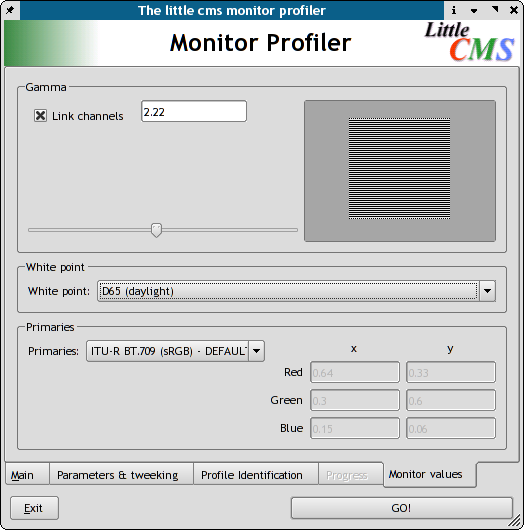
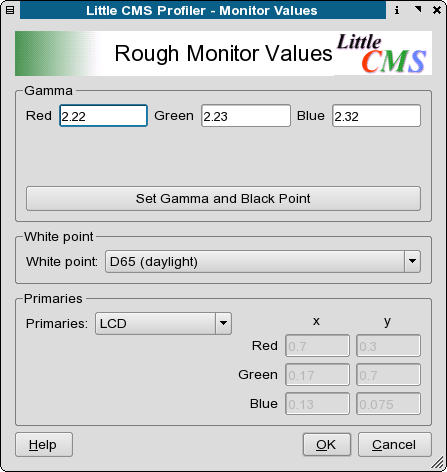
updated for lprof in place of the old lcms profiler
git-svn-id: svn://scribus.info/Scribus/trunk@4774 11d20701-8431-0410-a711-e3c959e3b870

diff --git a/Scribus/scribus/doc/en/moncal.html b/Scribus/scribus/doc/en/moncal.html
@@ -1,68 +1,75 @@
 <qt>
-<title>A Quick Start Guide to Monitor Profiling with littlecms</title>
-<h2>A Quick Start Guide to Monitor Profiling with littlecms</h2>
+<title>A Quick Start Guide to Monitor Profiling with Lprof</title>
+<h2>A Quick Start Guide to Monitor Profiling with Lprof</h2>
 
 <h4>Overview</h4>
-<p><em>Author's note, the littlecms profilers are no longer directly available from littecms, but they have been picked up by some volunteers and its is now a separate project from littlecms, nor are they supported by the littlecms author. Some distros do have them in package form, as well as source mirrors. Google is your friend. However, nothing else on Linux is capable of the profile creation so easily as the profile construction tools. They are worth tracking down in rpm or other package form.</em> Otherwise, visit <a href="http://lprof.sourceforge.net">http://lprof.sourceforge.net</a>. Note also these notes are based on the original package and will be updated for the new profilers soon. </p>
+<p><em>Author's note, the <strong>Lprof</strong> profilers were originally the creation of Marti Maria and after some time of dormancy have been resurrected by some volunteers. Lprof is now a separate project from littlecms, though it still depends on littlecms.</em> Some distros do have them in package form. Google is your friend. However, nothing else on Linux is capable of the profile creation so easily as Lprof. They are worth tracking down in rpm or other package form. One other thing to note for those who used the earlier Lprof tools that the update Lprof application is now a single executable. </p>
 
-<p>One of the best tools with littlecms is the profile construction tools. </a>. There are five separate tools included in the package:</p>
+ <p>Otherwise, visit <a href="http://lprof.sourceforge.net">http://lprof.sourceforge.net</a> for the latest info and packages. There is steady activity on refining these profilers to make them comparable to commercial grade applications. There are no native Windows packages yet available. For those users running on Windows and who do have an Adobe graphics application installed, creation of a profile with Adobe Gamma is recommended for creating a basic monitor profile. </p>
+
+<p>There are five separate tools included in the package:</p>
 
 <ul>
 	<li>A monitor profiler</li>
 	<li>A scanner profiler</li>
 	<li>A measurement tool</li>
 	<li>A profile checker</li>
-	<li>A utility ICC2IT8 for working with IT8 targets which are used for profiling scanners</li>
+	<li>Special utillities for with IT8 targets which are used for profiling scanners</li>
 </ul>
 
-<p>Here, we are going to focus on creation a monitor profile with <strong>qtmonitorprofiler</strong>. Without some sort of accurate monitor profiler, you will find it difficult to obtain good results from the other tools. Before starting, you need to find if possible, your monitor manual or a spec sheet from your vendor's website. In addition, you might wish to locate the factory ICC profile, which we will use for comparison purposes later on.</p>
+<p>Here, we are going to focus on creation a monitor profile with the Monitor Profile tool.  Without some sort of reasonably accurate monitor profiler, you will find it difficult to get consistent on screen color soft proofs with color management enabled, nor obtain good results from the other tools. Before starting, you need to find if possible, your monitor manual or a spec sheet from your vendor's website. In addition, you might wish to locate the factory ICC profile, if available, which we will use for comparison purposes later on.</p>
 
 <h4>Installation</h4>
 
-<p>It is simple to untar and simply type <code>make</code> in the source directory. This will build all five tools and leave the executables in the root source directory. If you are fussy like me, you can go in an hand edit the make files to taste. There is an option to compile this as a KDE application, but if KDE is in a non standard location, it will not compile in this manner. There is also available a patch availabe which enables correct compiling on Qt 3.x.<strong> Note: lprof as the package of tools is known is now a separate project. See: <a href="http://lprof.sourceforge.net">http://lprof.sourceforge.net</a></strong></p>
-
+<p>Lprof is uses a new build system called <strong>scons</strong>, which based on python.  It is simple to untar and simply type <code>python scons.py</code> in the source directory. This will build lprof and then <code>python scons.py install</code> as root will install the package.  <strong>I strongly recommend you read the detailed readme file before compiling.</strong></p>
 <h4>Preparation</h4>
 
 <p>First steps:</p>
 
 <ul>
 	<li>You should have your monitor on for at least a half hour to stabilize the temperature.</li>
-	<li>In addition, for optimum results, set your desktop to a neutral gray background without any bitmaps or images. This is one of those times, when all that beautiful eye candy on Xfree is <em>definitely</em> not helpful. The switch to a gray desktop, helps to prevent your eyes from being being fooled by a lack of balance in the colors. My desktop is usually a darkish blue, but for color critical work - back to boring gray.</li>
+	<li>In addition, for optimum results, set your desktop to a neutral gray background without any bitmap backgrounds or images. This is one of those times, when all that beautiful eye candy is <em>definitely</em> not helpful. The switch to a gray desktop, helps to prevent your eyes from being being fooled by a lack of balance in the colors. My desktop is usually a darkish blue, but for color critical work - back to boring gray.</li>
 
 	<li>Configure, if possible, your monitor's color temperature to 6500k through the on-screen controls. Your monitor manual should have directions to set this for your individual monitor.</li>
 </ul>
 
-<p><b>Explanation:</b> This step, helps to get your monitor to display with a closer match to the standards which are used in color measurement. Typically, most monitors are set at the factory to 9300k, which is too "cold" or bluish to depict colors in a balanced manner. After changing your monitor temperature to 6500k, you might think it has a yellowish cast, but walk away for a few minutes and return. Your eyes will adjust.</p>
+<p><b>Explanation:</b> This step, helps to get your monitor to display with a closer match to the standards which are used in color measurement. Typically, most monitors are set at the factory to 9300k to look brighter, however for accurate color management it is too "cold" or bluish to depict colors in a balanced manner. After changing your monitor temperature to 6500k, you might think it has a yellowish cast, but walk away for a few minutes and return. Your eyes will adjust.</p>
 
-<p>Next, set monitor contrast to nearly 100%. Then you want to use the brightness controls to adjust the brightness, so you can see the following, so that each of the shades of gray is distinct. KDE 3.3+ now ships with Kgamma, which is in the KDE Control Center. This is equally useful for your setup. </p>
+<p>Next, set monitor contrast to nearly 100%. Then you want to use the brightness controls to adjust the brightness, so you can see the following, so that each of the shades of gray is distinct. KDE 3.3+ now ships with Kgamma, which is in the KDE Control Center. This is equally useful for your setup. Below is the screen for setting Gamma within Lprof. It is nearly full screen and should be maximized to avoid effects of having nearby colors on the screen. </p>
 
-<table width="100%"><tr><td align="center"><img src="images/gammagrayscale.png" title="Adjust brightness so all shades of gray are visible." alt="gamma gray scale gradient" /></td></tr></table>
 
-<h4>Using qtmonitorprofiler</h4>
 
-<p>The first tab will bring up the panel. Check: "I want build a coarse monitor profile."</p>
+<h4>Setting Profile Parameters</h4>
+<p>The first tab will bring up the panel. Check: "I want build a coarse monitor profile." Then select: <strong>Enter Monitor Values. </strong></p>
+<table width="100%"><tr><td align="center"><img src="images/monprof1.png" title="The first lprof panel" alt="The first lprof panel"/></td></tr></table>
+<p>Then, select </p>
 
-<table width="100%"><tr><td align="center"><img src="images/monprof1.png" title="The first qtmeasurement panel" alt="The first qtmeasurement panel"/></td></tr></table>
 
-<p>Then switch to one the below:</p>
+<p>Then, switch to the panel here and select: <strong>Set Gamma and Black Point</strong></p>
 
-<table width="100%"><tr><td align="center"><img src="images/monprof2.png" title="Setting gamma and monitor white space with qtmonitorprofiler." alt="Setting gamma and monitor white space with qtmonitorprofiler."/></td></tr></table>
+<table width="100%"><tr><td align="center"><img src="images/monprof2.png" title="Setting gamma and black point." alt="Setting gamma and black point."/></td></tr></table>
+
+<h4>Setting Gamma </h4>
+<p>The panel below will take over almost all of your screen.</p>
+<table width="100%"><tr><td align="center"><img src="images/gammagrayscale.png" title="Adjust brightness so all shades of gray are visible." alt="Setting Gamma"  /></td></tr></table>
+
+
 
 <p>Now that we have switched the monitor temperature to 6500K, set the same in the white point drop down list. Unless you know there is a specific reason to over ride the default sRGB, leave this as is. You do not need to name the profile as indicated just yet. Knowledgeable folks in India indicate 7500K is a more common setting for that area. </p>
 
 <p>Next adjust the slider to adjust the gamma so the two shades of gray blend together with the closest color match possible. Most IBM compatible PC's have a gamma setting between 2.1 and 2.4. Macs are generally 1.8. This the reason it is common to find images on edited on a PC looking darker on a Mac. If you monitor is older, it might have a slight color cast and you can try adjusting the individual color channel settings. Don't overdo it. Slight subtle adjustments are better.</p>
 
-<p>Next go to the <strong>Profile Identification</strong> tab. Add some additional info as shown below:</p>
+<p>Next name the profile. On Linux or Unix, the recommended location is <code>$home/.color/icc </code> or <code>/usr/share/color/icc</code> for all users. Mac OSX users can use the native ColorSync tool in the control panel to create a similar profile.</p>
+
+<p>You can add addtional descriptive info in the Profile Identification panel below:</p>
 
 <table width="100%"><tr><td align="center"><img src="images/monprof4.png" title="adding descriptive info for your icm profile" alt="adding descriptive info for your icm profile"/></td></tr></table>
 
 <h4>Using the monitor profile in Scribus</h4>
 
-<p>Next, go back to the main page, name your profile. You might want to name the profile something like: <code>/home/peter/d650023.icm</code> This gives you a quick reference to what the profile means. In this case, d= daylight 6500=the monitor is set to 6500k 23=gamma setting of 2.3. If you have colored walls or large windows, you might want to create two monitor profiles: One for daylight and a second one, when you have indoor lighting on during the night. The difference is subtle, but is noticeable. for this preliminary profile, you can leave the
+<p>Next, go back to the main page, name your profile. You might want to name the profile something like: <code>$home/.color/icc/d650023.icm</code> This gives you a quick reference to what the profile means. In this case, d= daylight 6500=the monitor is set to 6500k 23=gamma setting of 2.3. If you have colored walls or large windows, you might want to create two monitor profiles: One for daylight and a second one, when you have indoor lighting on during the night. The difference is subtle, but is noticeable. for this preliminary profile, you can leave the <strong>Parameters and Tweaking</strong> tab alone. The default is set to the icc default specs.</p>
 
-<strong>Parameters and Tweaking</strong> tab alone. The default is set to the icc default specs.</p>
-
-<p>The last step is to <strong>click go</strong> and the profiler will create the icm file. This takes but a second or two. Now you can close the profiler for now.</p>
+<p>The last step is to <strong>Create Profile</strong> and the profiler will create the icm file. This takes but a second or two. Now you can close the profiler for now.</p>
 
 <p>Then, copy the profile to the Scribus profiles directory from a console to $home/.color/icc : <code>$ cp ./d650023.icm $home/.color/icc</code> This is one the default directories Scribus will search for profiles.
 </p>
@@ -73,7 +80,7 @@
 
 <p>By setting this monitor profile to be the default, you have enhanced the accuracy of your screen previews. You can selectively enable the gamut checking in your previews, but this is not quite perfected in littlecms. This is not a weakness in littlecms nor Scribus, but a limitation of the current icc specs. When enabling this consider the preview a warning - not definitive. The true test is what actually will print.</p>
 
-<p>You can also use this profile to enhance the previews in Cinepaint, GIMP or other image editing programs which are color management savvy. Monitor colors and brightness vary over time, so re-profiling at least once every couple of months is a good idea. In professional settings, sometimes they are re-profiled every week.</p>
+<p>You can also use this profile to enhance the previews in Cinepaint, GIMP, Krita or other image editing programs which are color management savvy. Monitor colors and brightness vary over time, so re-profiling at least once every couple of months is a good idea. In professional settings, sometimes they are re-profiled every week.</p>
 
-<p><strong>Note:</strong> The latest beta profilers from littlecms adds new features, including support for profiling digital cameras and additional enhancements. However, it is a Windows only program. Fortunately, it includes the updated lcms 1.14 and it installs and runs fine under any recent version of Wine.</p>
+<!--<p><strong>Note:</strong> The latest beta profilers from littlecms adds new features, including support for profiling digital cameras and additional enhancements. However, it is a Windows only program. Fortunately, it includes the updated lcms 1.14 and it installs and runs fine under any recent version of Wine.</p>-->
 </qt>
